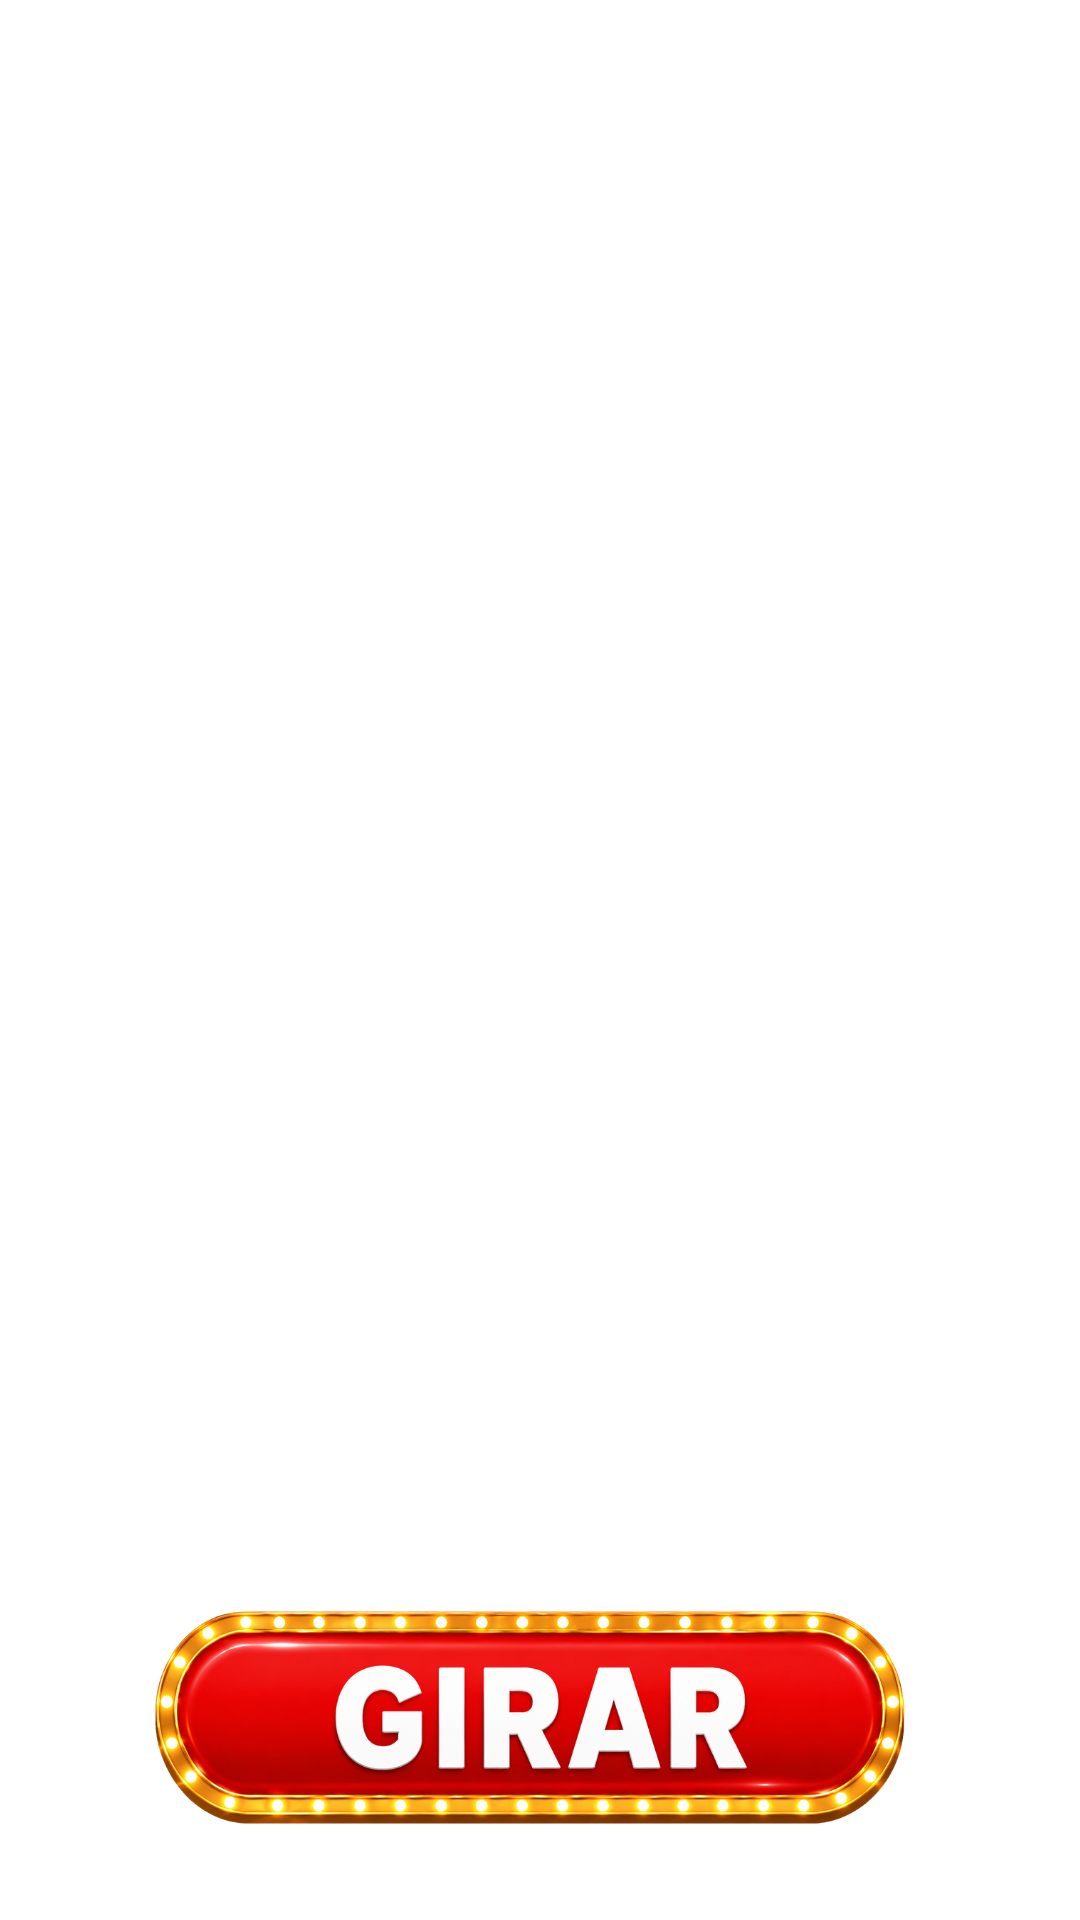
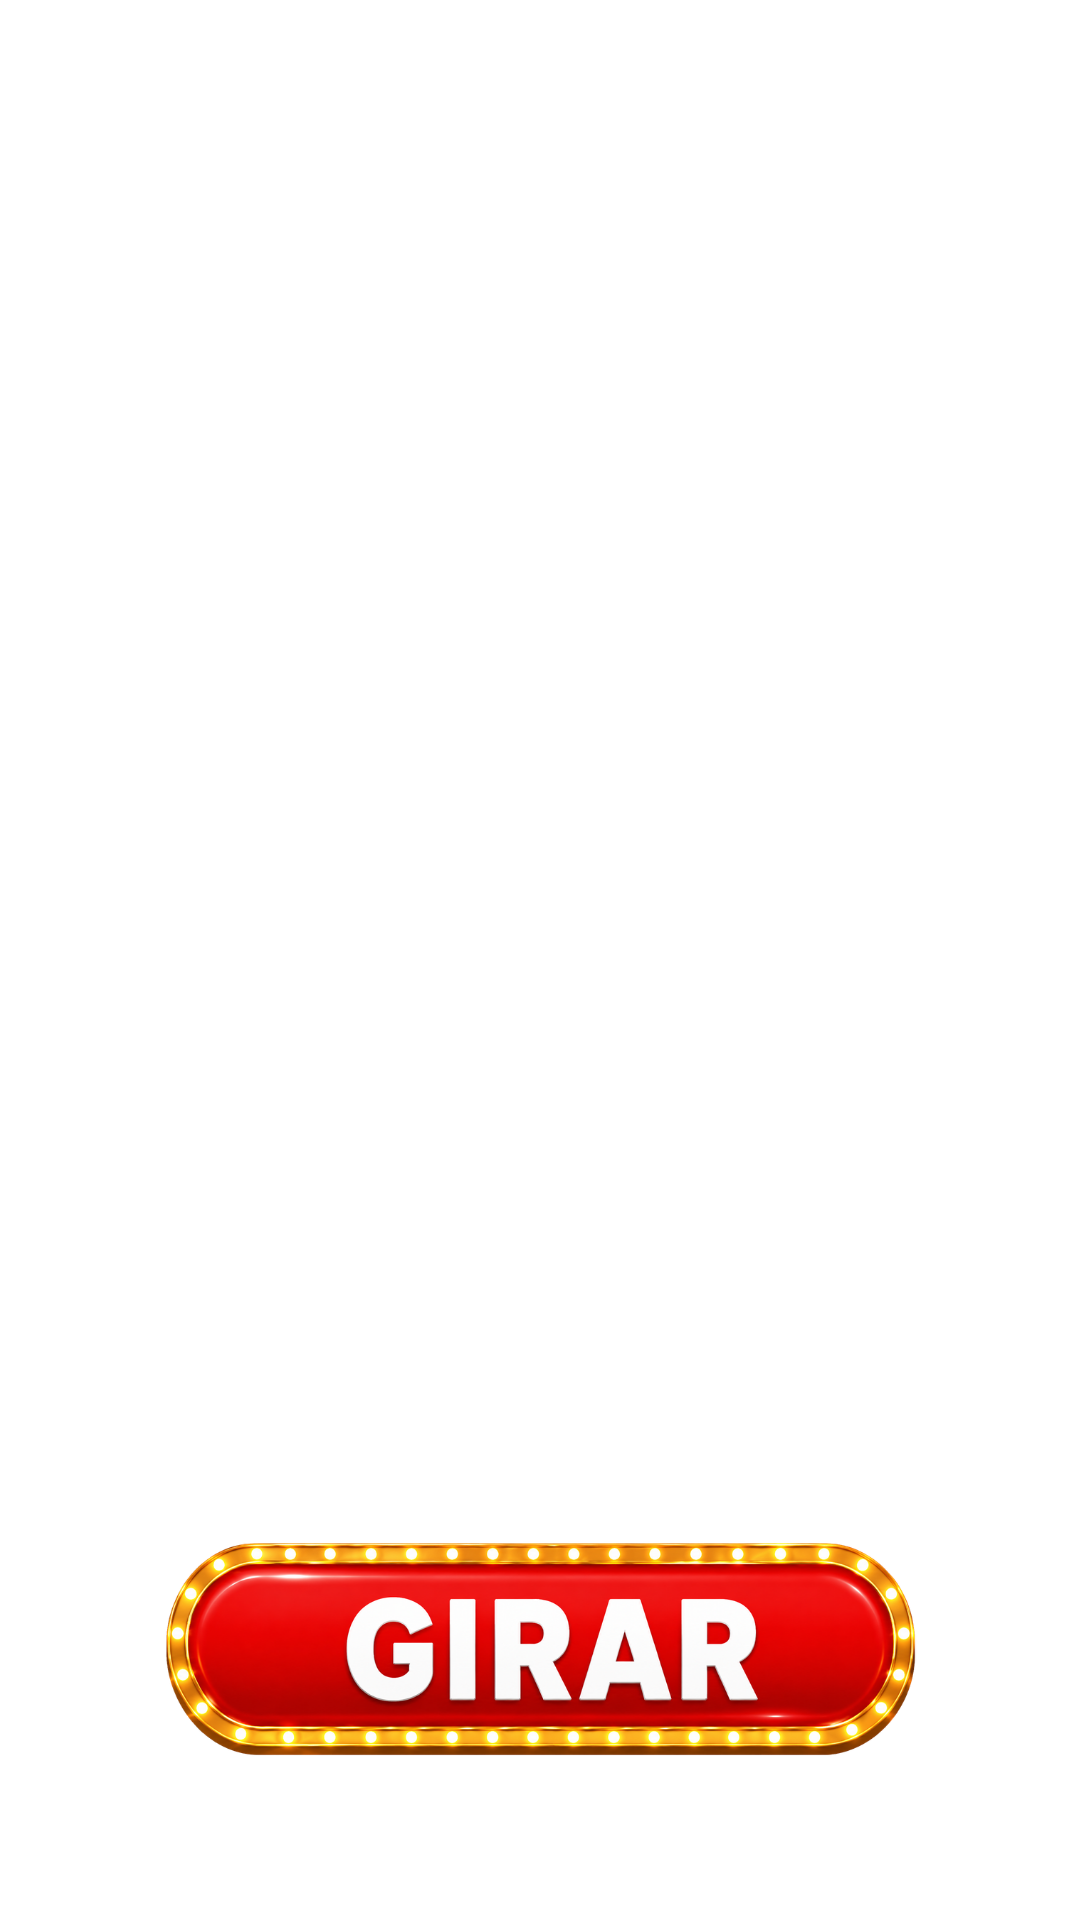
Botao GIRAR mais acima + faixa Instagram (informativa)

Changed region(s): [[0.1222, 0.7812, 0.8556, 0.9688]]

diff --git a/index.html b/index.html
@@ -29,10 +29,10 @@
 
   /* Botão GIRAR (área clicável transparente sobre a arte do botão) */
   #spinHit {
-    position: absolute; left: 153px; top: 1610px; width: 753px; height: 215px;
+    position: absolute; left: 166px; top: 1543px; width: 749px; height: 212px;
     background: transparent; border: none; cursor: pointer; z-index: 30;
   }
-  #botao.press { filter: brightness(1.15); transform: scale(.97); transform-origin: 531px 1717px; }
+  #botao.press { filter: brightness(1.15); transform: scale(.97); transform-origin: 540px 1649px; }
   #spinHit:disabled { cursor: default; }
 
   /* Botão Probabilidade (lado direito, abaixo das logos) */
@@ -101,6 +101,7 @@
   <img class="layer" id="wheel"    src="assets/roleta.png"   alt="" />
   <img class="layer" id="ponteiro" src="assets/ponteiro.png" alt="" />
   <img class="layer" id="botao"    src="assets/botao.png"    alt="" />
+  <img class="layer" id="instagram" src="assets/instagram.png" alt="@alfadistribuidorabrasil" />
 
   <button id="spinHit" aria-label="Girar"></button>
 

diff --git a/sw.js b/sw.js
@@ -1,10 +1,11 @@
 /* Service Worker - cache total para funcionar 100% offline */
-const CACHE = "roleta-v10";
+const CACHE = "roleta-v11";
 const ASSETS = [
   "./",
   "./index.html",
   "./manifest.webmanifest",
   "./icon.svg",
+  "./assets/instagram.png",
   "./sons/roleta.mp3",
   "./sons/ganhou.mp3",
   "./sons/naofoi.mp3",